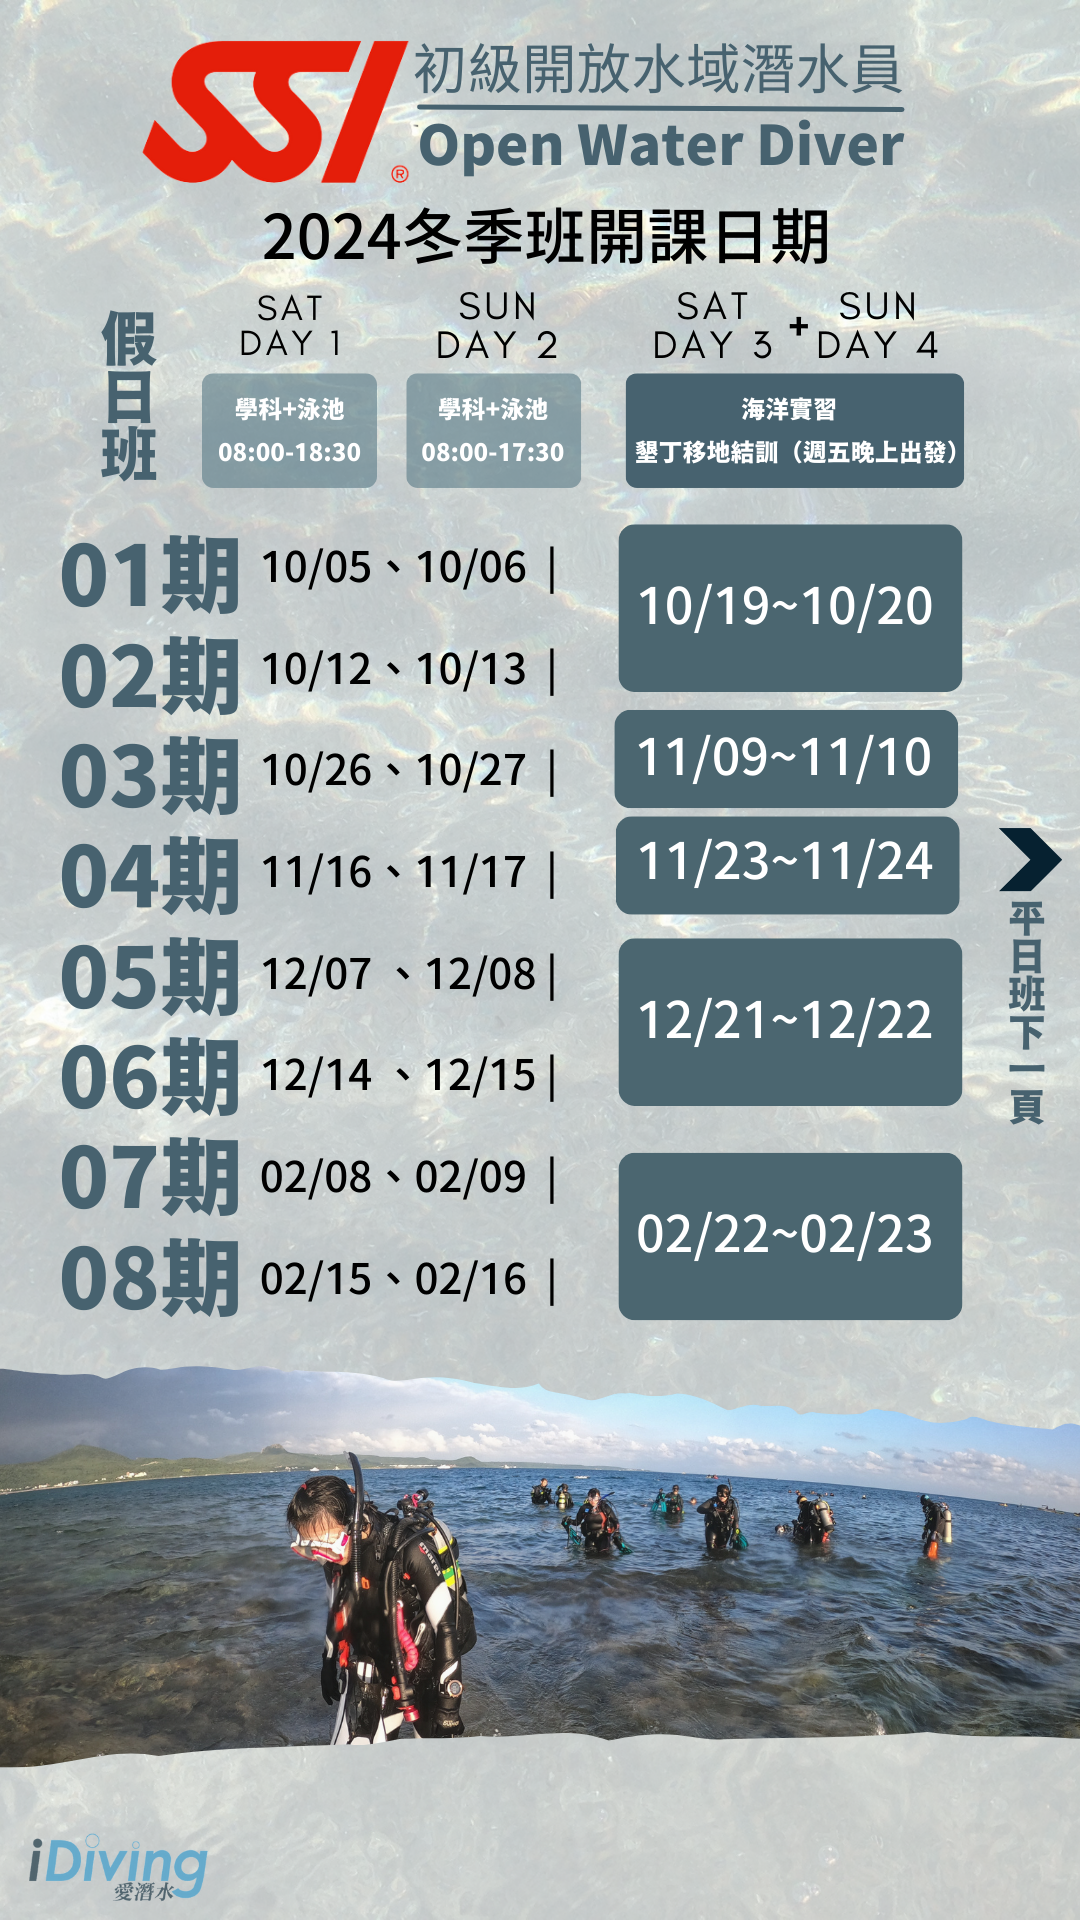
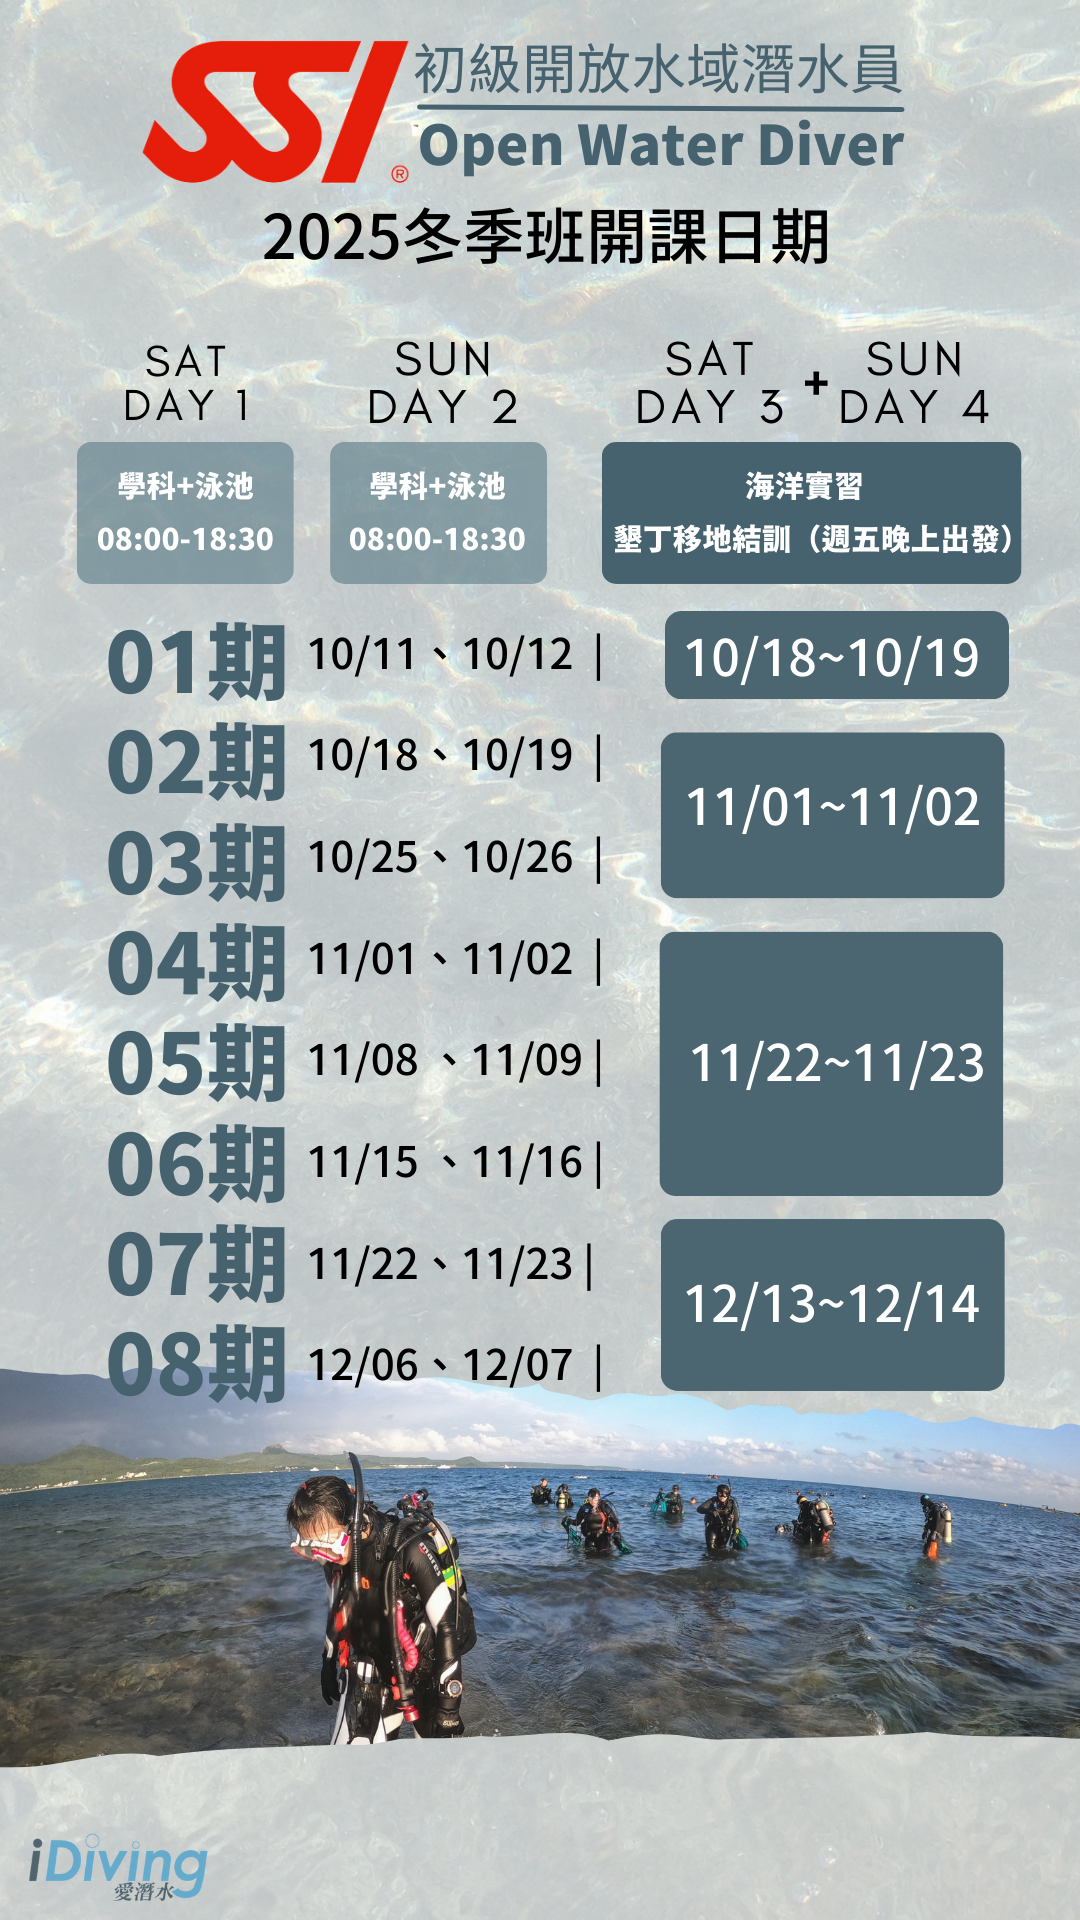
水肺 * 更新冬季班期別圖 * 更新初始頁簽

Changed region(s): [[0.0611, 0.1562, 0.9778, 0.75], [0.3361, 0.0938, 0.3667, 0.1562]]

diff --git a/src/app/pages/c120/c120.component.html b/src/app/pages/c120/c120.component.html
@@ -1089,7 +1089,7 @@
                   <tr>
                     <td>
                       <p class="fs-6">
-                        <br>DAY 2 | 學科 + 泳池術科 08:00~17:30<br>
+                        <br>DAY 2 | 學科 + 泳池術科 08:00~18:30<br>
                       </p>
                       <hr>
                       <p class="fs-6">
@@ -1150,9 +1150,9 @@
                   <div class="carousel-item active">
                     <img src="../../../../assets/Image/Data/OWD_Winter_Schedule.png" class="d-block w-100" alt="...">
                   </div>
-                  <div class="carousel-item">
+                  <!-- <div class="carousel-item">
                     <img src="../../../../assets/Image/Data/OWD_Winter_Schedule01.png" class="d-block w-100" alt="...">
-                  </div>
+                  </div> -->
                 </div>
                 <button class="carousel-control-prev" type="button" data-bs-target="#carouselExampleIndicators" data-bs-slide="prev">
                   <span class="carousel-control-prev-icon" aria-hidden="true"></span>

diff --git a/src/app/pages/c120/c120.component.ts b/src/app/pages/c120/c120.component.ts
@@ -20,7 +20,7 @@ import { HeadComponent } from '../../components/head/head.component';
 })
 export class C120Component implements OnInit {
 
-  active = 1;
+  active = 3;
 
   constructor() { }
 
